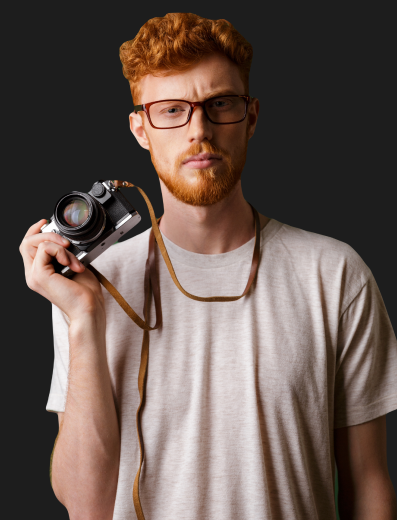
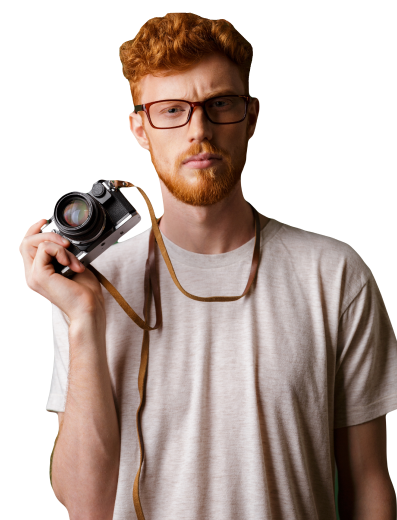
Update-heroioooo

diff --git a/src/partials/hero.html b/src/partials/hero.html
@@ -81,13 +81,13 @@
     </div>
     <picture class="hero-photographer">
       <source
-      srcset="/img/hero/PhotographerMobile.png 1x, /img/hero/PhotographerMobile.png 2x"
+      srcset="/img/hero/PhotographerMobile.png 1x, /img/hero/PhotographerMobile2x.png 2x"
       media="(min-width: 0)">
       <source
-      srcset="/img/hero/PhotographerMobile.png 1x, /img/hero/PhotographerMobile.png 2x"
+      srcset="/img/hero/PhotographerTablet.png 1x, /img/hero/PhotographerTablet2x.png 2x"
       media="(min-width: 767px)">
       <source
-      srcset="/img/hero/PhotographerMobile.png 1x, /img/hero/PhotographerMobile.png 2x"
+      srcset="/img/hero/PhotographerDesktop.png 1x, /img/hero/PhotographerDesktop2x.png 2x"
       media="(min-width: 1280px)">
       <img src="/img/hero/PhotographerMobile.png" class="hero-photographer-img" alt="Photographer">
     </picture>
